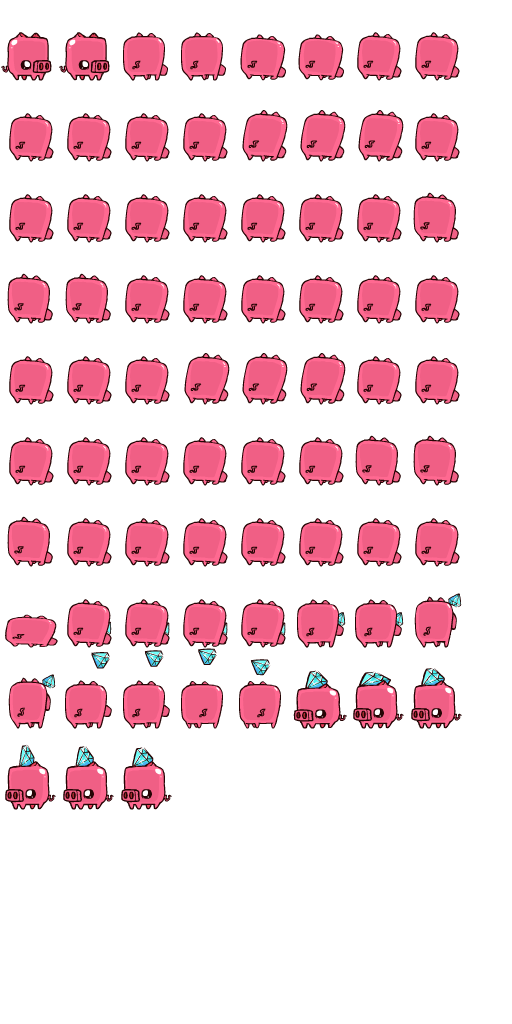
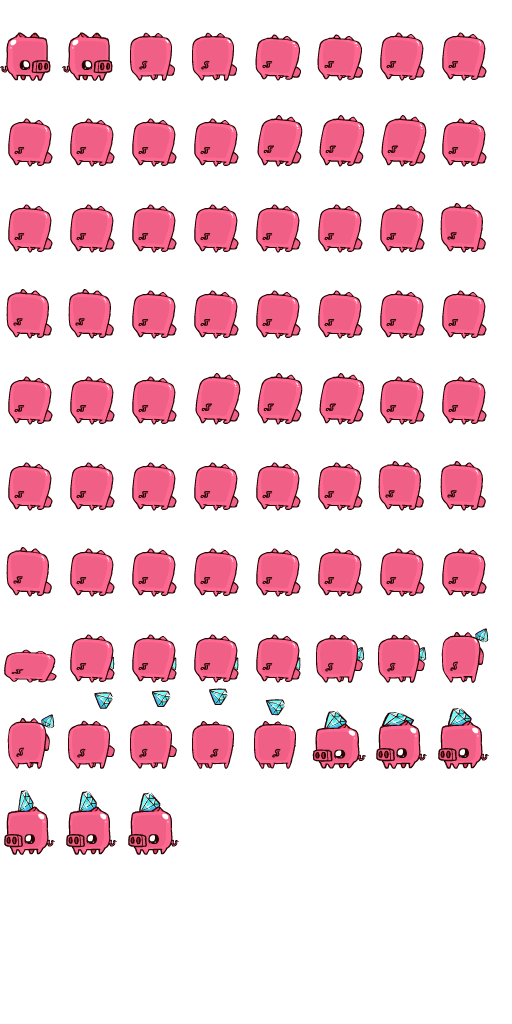
no message

diff --git a/js/Actor.js b/js/Actor.js
@@ -7,34 +7,67 @@ var Actor = function (type) {
 
 	this.type = type;
 
+	this.hasGem = false;
+	this.isOnGround = false;
+
+	var data;
+	data = new createjs.SpriteSheet({
+		framerate: 25,
+		images: [ 
+			GJ.Assets.get('PigRun'), 		// 22
+			GJ.Assets.get('PigHit'), 		// 15
+			GJ.Assets.get('PigCollect'), 	// 75
+			GJ.Assets.get('PigGemRun'), 		// 22
+			GJ.Assets.get('PigBombRun') 		// 22
+		], 
+		frames: [
+			// x, y, width, height, index, regX, regY
+			// the index needs to match the file with the sprites
+			[0,0,56,70,0,27.75,67.7],[56,0,56,70,0,27.75,67.7],[112,0,56,70,0,27.75,67.7],[168,0,56,70,0,27.75,67.7],[0,70,56,70,0,27.75,67.7],[56,70,56,70,0,27.75,67.7],[112,70,56,70,0,27.75,67.7],[168,70,56,70,0,27.75,67.7],[0,140,56,70,0,27.75,67.7],[56,140,56,70,0,27.75,67.7],[112,140,56,70,0,27.75,67.7],[168,140,56,70,0,27.75,67.7],[0,210,56,70,0,27.75,67.7],[56,210,56,70,0,27.75,67.7],[112,210,56,70,0,27.75,67.7],[168,210,56,70,0,27.75,67.7],[0,280,56,70,0,27.75,67.7],[56,280,56,70,0,27.75,67.7],[112,280,56,70,0,27.75,67.7],[168,280,56,70,0,27.75,67.7],[0,350,56,70,0,27.75,67.7],[56,350,56,70,0,27.75,67.7],
+			[0,0,58,58,1,3.4,4.15],[58,0,58,58,1,3.4,4.15],[116,0,58,58,1,3.4,4.15],[174,0,58,58,1,3.4,4.15],[0,58,58,58,1,3.4,4.15],[58,58,58,58,1,3.4,4.15],[116,58,58,58,1,3.4,4.15],[174,58,58,58,1,3.4,4.15],[0,116,58,58,1,3.4,4.15],[58,116,58,58,1,3.4,4.15],[116,116,58,58,1,3.4,4.15],[174,116,58,58,1,3.4,4.15],[0,174,58,58,1,3.4,4.15],[58,174,58,58,1,3.4,4.15],[116,174,58,58,1,3.4,4.15],
+			[0,0,57,81,2,28,80.5],[62,0,57,81,2,28,80.5],[124,0,57,81,2,28,80.5],[186,0,57,81,2,28,80.5],[248,0,57,81,2,28,80.5],[310,0,57,81,2,28,80.5],[372,0,57,81,2,28,80.5],[434,0,57,81,2,28,80.5],[0,86,57,81,2,28,80.5],[62,86,57,81,2,28,80.5],[124,86,57,81,2,28,80.5],[186,86,57,81,2,28,80.5],[248,86,57,81,2,28,80.5],[310,86,57,81,2,28,80.5],[372,86,57,81,2,28,80.5],[434,86,57,81,2,28,80.5],[0,172,57,81,2,28,80.5],[62,172,57,81,2,28,80.5],[124,172,57,81,2,28,80.5],[186,172,57,81,2,28,80.5],[248,172,57,81,2,28,80.5],[310,172,57,81,2,28,80.5],[372,172,57,81,2,28,80.5],[434,172,57,81,2,28,80.5],[0,258,57,81,2,28,80.5],[62,258,57,81,2,28,80.5],[124,258,57,81,2,28,80.5],[186,258,57,81,2,28,80.5],[248,258,57,81,2,28,80.5],[310,258,57,81,2,28,80.5],[372,258,57,81,2,28,80.5],[434,258,57,81,2,28,80.5],[0,344,57,81,2,28,80.5],[62,344,57,81,2,28,80.5],[124,344,57,81,2,28,80.5],[186,344,57,81,2,28,80.5],[248,344,57,81,2,28,80.5],[310,344,57,81,2,28,80.5],[372,344,57,81,2,28,80.5],[434,344,57,81,2,28,80.5],[0,430,57,81,2,28,80.5],[62,430,57,81,2,28,80.5],[124,430,57,81,2,28,80.5],[186,430,57,81,2,28,80.5],[248,430,57,81,2,28,80.5],[310,430,57,81,2,28,80.5],[372,430,57,81,2,28,80.5],[434,430,57,81,2,28,80.5],[0,516,57,81,2,28,80.5],[62,516,57,81,2,28,80.5],[124,516,57,81,2,28,80.5],[186,516,57,81,2,28,80.5],[248,516,57,81,2,28,80.5],[310,516,57,81,2,28,80.5],[372,516,57,81,2,28,80.5],[434,516,57,81,2,28,80.5],[0,602,57,81,2,28,80.5],[62,602,57,81,2,28,80.5],[124,602,57,81,2,28,80.5],[186,602,57,81,2,28,80.5],[248,602,57,81,2,28,80.5],[310,602,57,81,2,28,80.5],[372,602,57,81,2,28,80.5],[434,602,57,81,2,28,80.5],[0,688,57,81,2,28,80.5],[62,688,57,81,2,28,80.5],[124,688,57,81,2,28,80.5],[186,688,57,81,2,28,80.5],[248,688,57,81,2,28,80.5],[310,688,57,81,2,28,80.5],[372,688,57,81,2,28,80.5],[434,688,57,81,2,28,80.5],[0,774,57,81,2,28,80.5],[62,774,57,81,2,28,80.5],[124,774,57,81,2,28,80.5],
+			[0,0,78,128,3,38.95,124.25],[78,0,78,128,3,38.95,124.25],[156,0,78,128,3,38.95,124.25],[234,0,78,128,3,38.95,124.25],[312,0,78,128,3,38.95,124.25],[390,0,78,128,3,38.95,124.25],[0,128,78,128,3,38.95,124.25],[78,128,78,128,3,38.95,124.25],[156,128,78,128,3,38.95,124.25],[234,128,78,128,3,38.95,124.25],[312,128,78,128,3,38.95,124.25],[390,128,78,128,3,38.95,124.25],[0,256,78,128,3,38.95,124.25],[78,256,78,128,3,38.95,124.25],[156,256,78,128,3,38.95,124.25],[234,256,78,128,3,38.95,124.25],[312,256,78,128,3,38.95,124.25],[390,256,78,128,3,38.95,124.25],[0,384,78,128,3,38.95,124.25],[78,384,78,128,3,38.95,124.25],[156,384,78,128,3,38.95,124.25],[234,384,78,128,3,38.95,124.25],
+			[0,0,56,97,4,27.75,93.95],[56,0,56,97,4,27.75,93.95],[112,0,56,97,4,27.75,93.95],[168,0,56,97,4,27.75,93.95],[224,0,56,97,4,27.75,93.95],[280,0,56,97,4,27.75,93.95],[336,0,56,97,4,27.75,93.95],[392,0,56,97,4,27.75,93.95],[448,0,56,97,4,27.75,93.95],[0,97,56,97,4,27.75,93.95],[56,97,56,97,4,27.75,93.95],[112,97,56,97,4,27.75,93.95],[168,97,56,97,4,27.75,93.95],[224,97,56,97,4,27.75,93.95],[280,97,56,97,4,27.75,93.95],[336,97,56,97,4,27.75,93.95],[392,97,56,97,4,27.75,93.95],[448,97,56,97,4,27.75,93.95],[0,194,56,97,4,27.75,93.95],[56,194,56,97,4,27.75,93.95],[112,194,56,97,4,27.75,93.95],[168,194,56,97,4,27.75,93.95]
+		],
+		animations: { 
+			run: [0, 21],
+			hit: [22, 37],
+			collect: [38, 113],
+			gemrun: [114, 136],
+			bombrun: [137, 159]
+		}
+	});
+	this.image = new createjs.Sprite(data, 'run');
+
+	this.waitDelay = 160;
+
 	if (this.type === GJ.ActorTypes.GROUND_NORMAL) {
 		this.useGravity = true;
 		this.moveSpeed = 1;
 		this.maxMoveSpeed = 5;
 		this.weight = 2;
-		this.waitDelay = 100;
-		this.image = new createjs.Bitmap(GJ.Assets.get('sprite1'));
+		this.hasBomb = false;
 
 	} else if (this.type === GJ.ActorTypes.GROUND_EXPLODING) {
 		this.useGravity = true;
 		this.moveSpeed = 1;
-		this.maxMoveSpeed = 5;
+		this.maxMoveSpeed = 3;
 		this.weight = 2;
-		this.waitDelay = 200;
-		this.image = new createjs.Bitmap(GJ.Assets.get('sprite2'));
+		this.hasBomb = true;
 
 	} else if (this.type === GJ.ActorTypes.FLYING_NORMAL) {
 		this.useGravity = false;
 		this.moveSpeed = 1;
 		this.maxMoveSpeed = 5;
 		this.weight = 2;
-		this.waitDelay = 300;
-		this.image = new createjs.Bitmap(GJ.Assets.get('sprite3'));
+		this.hasBomb = false;
 		this.balloon = new createjs.Bitmap(GJ.Assets.get('sprite1'));
 	}
 
 	this.image.x = Math.random() * 100 + 700;
 	this.image.y = Math.random() * 400;
+
+	this.height = 50;//this.image.getBounds().height;
 
 	if (typeof this.balloon !== 'undefined') {
 		this.balloon.x = this.image.x;
@@ -94,14 +127,16 @@ Actor.prototype.doAI = function () {
 
 		if (this.image.y + this.image.getBounds().height / 2 > this.groundHeight) {
 			this.state = GJ.States.STEALING;
+			this.type = GJ.ActorTypes.GROUND_NORMAL;
 		}
 
 	} else if (this.state === GJ.States.STEALING) {
 		this.waitTimer++;
 
-		this.idle();
+		this.collect();
 
 		if (this.waitTimer > this.waitDelay) {
+			this.hasGem = true;
 			this.state = GJ.States.LEGGING_IT;
 		}
 	} else if (this.state === GJ.States.LEGGING_IT) {
@@ -149,8 +184,21 @@ Actor.prototype.moveLeft = function () {
 	}
 
 	this.direction = GJ.Directions.LEFT;
-	this.image.scaleX = 1;
-	// this.image.gotoAndPlay('run');
+	this.image.scaleX = -1;
+
+	if (this.image.currentAnimation !== 'run' && this.image.currentAnimation !== 'gemrun') {
+
+		if (this.hasGem) {
+			this.image.gotoAndPlay('gemrun');
+		} else if (this.hasBomb) {
+			console.log('biomb');
+			this.image.gotoAndPlay('bombrun');
+		} else {
+			this.image.gotoAndPlay('run');
+			
+		}
+	}
+
 };
 
 
@@ -163,12 +211,24 @@ Actor.prototype.moveRight = function () {
 	}
 
 	this.direction = GJ.Directions.RIGHT;
-	this.image.scaleX = -1;
-	// this.image.gotoAndPlay('run');
+
+	this.image.scaleX = 1;
+
+	if (this.image.currentAnimation !== 'run' && this.image.currentAnimation !== 'gemrun') {
+
+		if (this.hasGem) {
+			this.image.gotoAndPlay('gemrun');
+		} else if (this.hasBomb) {
+			this.image.gotoAndPlay('bombrun');
+		}  else {
+			this.image.gotoAndPlay('run');
+		}
+	}
+
 };
 
 
-Actor.prototype.idle = function () {
+Actor.prototype.collect = function () {
 	if (this.accelX > 0) {
 		this.accelX -= this.weight;
 
@@ -183,23 +243,27 @@ Actor.prototype.idle = function () {
 		}
 	}
 
+	if (this.image.currentAnimation !== 'collect') {
+			this.image.gotoAndPlay('collect');
+		}
+
 	// this.image.gotoAndPlay('idle');
 };
 
 
 Actor.prototype.spawnBacsplosion = function () {
-	this.emitter = new createjs.ParticleEmitter();
+	this.emitter = new createjs.ParticleEmitter(GJ.Assets.get('ParticleBacon'));
     this.emitter.position = new createjs.Point(this.image.x, this.image.y);
     this.emitter.emitterType = createjs.ParticleEmitterType.Emit;
     this.emitter.duration = 60;	// how long emitter lasts for
-    this.emitter.emissionRate = 400;
-    this.emitter.maxParticles = 800;
-    this.emitter.life = 3000;
-    this.emitter.lifeVar = 1000;
-    this.emitter.speed = 200;
+    this.emitter.emissionRate = 200;
+    this.emitter.maxParticles = 200;
+    this.emitter.life = 2000;
+    this.emitter.lifeVar = 500;
+    this.emitter.speed = 230;
     this.emitter.speedVar = 0;
-    this.emitter.positionVarX = 0;
-    this.emitter.positionVarY = 0;
+    this.emitter.positionVarX = 5;
+    this.emitter.positionVarY = 5;
     this.emitter.accelerationX = 0;
     this.emitter.accelerationY = 0;
     this.emitter.radialAcceleration = 0;
@@ -210,17 +274,17 @@ Actor.prototype.spawnBacsplosion = function () {
     this.emitter.angleVar = 180;
     this.emitter.startSpin = 0;
     this.emitter.startSpinVar = 0;
-    this.emitter.endSpin = null;
-    this.emitter.endSpinVar = null;
+    this.emitter.endSpin = 10;
+    this.emitter.endSpinVar = 1;
     this.emitter.startColor = [150, 150, 150];
     this.emitter.startColorVar = [0, 0, 0];
     this.emitter.startOpacity = 1;
     this.emitter.endColor = null;
     this.emitter.endColorVar = null;
     this.emitter.endOpacity = 0;
-    this.emitter.startSize = 20;
+    this.emitter.startSize = 10;
     this.emitter.startSizeVar = 0;
-    this.emitter.endSize = 40;
+    this.emitter.endSize = 10;
     this.emitter.endSizeVar = null;
 
 	GJ.getStage().addChild(this.emitter);
@@ -250,10 +314,14 @@ Actor.prototype.hitByBullet = function () {
 
 
 Actor.prototype.checkWorldCollision = function () {
-	var height = this.image.getBounds().height / 2;
+	// var height = this.height;//this.image.getBounds().height / 2;
 
-	if (this.image.y + height + this.accelY >= GJ.getCurrentWorld().getGroundHeight()) {
-		this.image.y = GJ.getCurrentWorld().getGroundHeight() - height;
+	if (this.image.y + this.accelY + this.height >= GJ.getCurrentWorld().getGroundHeight()) {
+		this.image.y = GJ.getCurrentWorld().getGroundHeight() + this.height;
 		this.accelY = 0;
+
+		this.isOnGround = true;
+	} else {
+		this.isOnGround = false;
 	}
 };

diff --git a/img/Pigs/PigCollect.js b/img/Pigs/PigCollect.js
@@ -2,7 +2,7 @@
 CollectingPig_instance_1 = function() {
 	this.initialize();
 }
-CollectingPig_instance_1._SpriteSheet = new createjs.SpriteSheet({images: ["PigCollect.png"], frames: [[0,0,58,81,0,0,31.6],[58,0,58,81,0,0,31.6],[116,0,58,81,0,0,31.6],[174,0,58,81,0,0,31.6],[232,0,58,81,0,0,31.6],[290,0,58,81,0,0,31.6],[348,0,58,81,0,0,31.6],[406,0,58,81,0,0,31.6],[0,81,58,81,0,0,31.6],[58,81,58,81,0,0,31.6],[116,81,58,81,0,0,31.6],[174,81,58,81,0,0,31.6],[232,81,58,81,0,0,31.6],[290,81,58,81,0,0,31.6],[348,81,58,81,0,0,31.6],[406,81,58,81,0,0,31.6],[0,162,58,81,0,0,31.6],[58,162,58,81,0,0,31.6],[116,162,58,81,0,0,31.6],[174,162,58,81,0,0,31.6],[232,162,58,81,0,0,31.6],[290,162,58,81,0,0,31.6],[348,162,58,81,0,0,31.6],[406,162,58,81,0,0,31.6],[0,243,58,81,0,0,31.6],[58,243,58,81,0,0,31.6],[116,243,58,81,0,0,31.6],[174,243,58,81,0,0,31.6],[232,243,58,81,0,0,31.6],[290,243,58,81,0,0,31.6],[348,243,58,81,0,0,31.6],[406,243,58,81,0,0,31.6],[0,324,58,81,0,0,31.6],[58,324,58,81,0,0,31.6],[116,324,58,81,0,0,31.6],[174,324,58,81,0,0,31.6],[232,324,58,81,0,0,31.6],[290,324,58,81,0,0,31.6],[348,324,58,81,0,0,31.6],[406,324,58,81,0,0,31.6],[0,405,58,81,0,0,31.6],[58,405,58,81,0,0,31.6],[116,405,58,81,0,0,31.6],[174,405,58,81,0,0,31.6],[232,405,58,81,0,0,31.6],[290,405,58,81,0,0,31.6],[348,405,58,81,0,0,31.6],[406,405,58,81,0,0,31.6],[0,486,58,81,0,0,31.6],[58,486,58,81,0,0,31.6],[116,486,58,81,0,0,31.6],[174,486,58,81,0,0,31.6],[232,486,58,81,0,0,31.6],[290,486,58,81,0,0,31.6],[348,486,58,81,0,0,31.6],[406,486,58,81,0,0,31.6],[0,567,58,81,0,0,31.6],[58,567,58,81,0,0,31.6],[116,567,58,81,0,0,31.6],[174,567,58,81,0,0,31.6],[232,567,58,81,0,0,31.6],[290,567,58,81,0,0,31.6],[348,567,58,81,0,0,31.6],[406,567,58,81,0,0,31.6],[0,648,58,81,0,0,31.6],[58,648,58,81,0,0,31.6],[116,648,58,81,0,0,31.6],[174,648,58,81,0,0,31.6],[232,648,58,81,0,0,31.6],[290,648,58,81,0,0,31.6],[348,648,58,81,0,0,31.6],[406,648,58,81,0,0,31.6],[0,729,58,81,0,0,31.6],[58,729,58,81,0,0,31.6],[116,729,58,81,0,0,31.6]]});
+CollectingPig_instance_1._SpriteSheet = new createjs.SpriteSheet({images: ["PigCollect.png"], frames: [[0,0,57,81,2,28,80.5],[62,0,57,81,2,28,80.5],[124,0,57,81,2,28,80.5],[186,0,57,81,2,28,80.5],[248,0,57,81,2,28,80.5],[310,0,57,81,2,28,80.5],[372,0,57,81,2,28,80.5],[434,0,57,81,2,28,80.5],[0,86,57,81,2,28,80.5],[62,86,57,81,2,28,80.5],[124,86,57,81,2,28,80.5],[186,86,57,81,2,28,80.5],[248,86,57,81,2,28,80.5],[310,86,57,81,2,28,80.5],[372,86,57,81,2,28,80.5],[434,86,57,81,2,28,80.5],[0,172,57,81,2,28,80.5],[62,172,57,81,2,28,80.5],[124,172,57,81,2,28,80.5],[186,172,57,81,2,28,80.5],[248,172,57,81,2,28,80.5],[310,172,57,81,2,28,80.5],[372,172,57,81,2,28,80.5],[434,172,57,81,2,28,80.5],[0,258,57,81,2,28,80.5],[62,258,57,81,2,28,80.5],[124,258,57,81,2,28,80.5],[186,258,57,81,2,28,80.5],[248,258,57,81,2,28,80.5],[310,258,57,81,2,28,80.5],[372,258,57,81,2,28,80.5],[434,258,57,81,2,28,80.5],[0,344,57,81,2,28,80.5],[62,344,57,81,2,28,80.5],[124,344,57,81,2,28,80.5],[186,344,57,81,2,28,80.5],[248,344,57,81,2,28,80.5],[310,344,57,81,2,28,80.5],[372,344,57,81,2,28,80.5],[434,344,57,81,2,28,80.5],[0,430,57,81,2,28,80.5],[62,430,57,81,2,28,80.5],[124,430,57,81,2,28,80.5],[186,430,57,81,2,28,80.5],[248,430,57,81,2,28,80.5],[310,430,57,81,2,28,80.5],[372,430,57,81,2,28,80.5],[434,430,57,81,2,28,80.5],[0,516,57,81,2,28,80.5],[62,516,57,81,2,28,80.5],[124,516,57,81,2,28,80.5],[186,516,57,81,2,28,80.5],[248,516,57,81,2,28,80.5],[310,516,57,81,2,28,80.5],[372,516,57,81,2,28,80.5],[434,516,57,81,2,28,80.5],[0,602,57,81,2,28,80.5],[62,602,57,81,2,28,80.5],[124,602,57,81,2,28,80.5],[186,602,57,81,2,28,80.5],[248,602,57,81,2,28,80.5],[310,602,57,81,2,28,80.5],[372,602,57,81,2,28,80.5],[434,602,57,81,2,28,80.5],[0,688,57,81,2,28,80.5],[62,688,57,81,2,28,80.5],[124,688,57,81,2,28,80.5],[186,688,57,81,2,28,80.5],[248,688,57,81,2,28,80.5],[310,688,57,81,2,28,80.5],[372,688,57,81,2,28,80.5],[434,688,57,81,2,28,80.5],[0,774,57,81,2,28,80.5],[62,774,57,81,2,28,80.5],[124,774,57,81,2,28,80.5]]});
 var CollectingPig_instance_1_p = CollectingPig_instance_1.prototype = new createjs.BitmapAnimation();
 CollectingPig_instance_1_p.BitmapAnimation_initialize = CollectingPig_instance_1_p.initialize;
 CollectingPig_instance_1_p.initialize = function() {

diff --git a/js/Player.js b/js/Player.js
@@ -54,21 +54,25 @@ var Player = function (leftKey, rightKey, shootKey, jumpKey, meleeKey, useKey, m
 		framerate: 25,
 		images: [ 
 			GJ.Assets.get('MainCharacterIdle'), // 10
-			GJ.Assets.get('MainCharacterRun') 	// 17
+			GJ.Assets.get('MainCharacterRun'), 	// 17
+			GJ.Assets.get('MainCharacterJump') 	// 15
+			// repeat jump sheet for landing anim // 25
 		], 
 		frames: [
 			// x, y, width, height, index, regX, regY
 			// the index needs to match the file with the sprites
 			[0,0,67,97,0,32.3,96.65],[72,0,67,97,0,32.3,96.65],[144,0,67,97,0,32.3,96.65],[0,102,67,97,0,32.3,96.65],[72,102,67,97,0,32.3,96.65],[144,102,67,97,0,32.3,96.65],[0,204,67,97,0,32.3,96.65],[72,204,67,97,0,32.3,96.65],[144,204,67,97,0,32.3,96.65],[0,306,67,97,0,32.3,96.65],[72,306,67,97,0,32.3,96.65],[144,306,67,97,0,32.3,96.65],[0,408,67,97,0,32.3,96.65],
-			[0,0,71,113,1,37.75,112.35],[71,0,71,113,1,37.75,112.35],[142,0,71,113,1,37.75,112.35],[213,0,71,113,1,37.75,112.35],[284,0,71,113,1,37.75,112.35],[355,0,71,113,1,37.75,112.35],[426,0,71,113,1,37.75,112.35],[0,113,71,113,1,37.75,112.35],[71,113,71,113,1,37.75,112.35],[142,113,71,113,1,37.75,112.35],[213,113,71,113,1,37.75,112.35],[284,113,71,113,1,37.75,112.35],[355,113,71,113,1,37.75,112.35],[426,113,71,113,1,37.75,112.35],[0,226,71,113,1,37.75,112.35],[71,226,71,113,1,37.75,112.35],[142,226,71,113,1,37.75,112.35]
+			[0,0,71,113,1,37.75,112.35],[71,0,71,113,1,37.75,112.35],[142,0,71,113,1,37.75,112.35],[213,0,71,113,1,37.75,112.35],[284,0,71,113,1,37.75,112.35],[355,0,71,113,1,37.75,112.35],[426,0,71,113,1,37.75,112.35],[0,113,71,113,1,37.75,112.35],[71,113,71,113,1,37.75,112.35],[142,113,71,113,1,37.75,112.35],[213,113,71,113,1,37.75,112.35],[284,113,71,113,1,37.75,112.35],[355,113,71,113,1,37.75,112.35],[426,113,71,113,1,37.75,112.35],[0,226,71,113,1,37.75,112.35],[71,226,71,113,1,37.75,112.35],[142,226,71,113,1,37.75,112.35],
+			[0,0,101,104,2,47.05,99.85],[101,0,101,104,2,47.05,99.85],[202,0,101,104,2,47.05,99.85],[303,0,101,104,2,47.05,99.85],[404,0,101,104,2,47.05,99.85],[0,104,101,104,2,47.05,99.85],[101,104,101,104,2,47.05,99.85],[202,104,101,104,2,47.05,99.85],[303,104,101,104,2,47.05,99.85],[404,104,101,104,2,47.05,99.85],[0,208,101,104,2,47.05,99.85],[101,208,101,104,2,47.05,99.85],[202,208,101,104,2,47.05,99.85],[303,208,101,104,2,47.05,99.85],[404,208,101,104,2,47.05,99.85],[0,312,101,104,2,47.05,99.85],[101,312,101,104,2,47.05,99.85],[202,312,101,104,2,47.05,99.85],[303,312,101,104,2,47.05,99.85],[404,312,101,104,2,47.05,99.85],[0,416,101,104,2,47.05,99.85],[101,416,101,104,2,47.05,99.85],[202,416,101,104,2,47.05,99.85],[303,416,101,104,2,47.05,99.85],[404,416,101,104,2,47.05,99.85],[0,520,101,104,2,47.05,99.85],[101,520,101,104,2,47.05,99.85],[202,520,101,104,2,47.05,99.85],[303,520,101,104,2,47.05,99.85],[404,520,101,104,2,47.05,99.85],[0,624,101,104,2,47.05,99.85],[101,624,101,104,2,47.05,99.85],[202,624,101,104,2,47.05,99.85],[303,624,101,104,2,47.05,99.85],[404,624,101,104,2,47.05,99.85],[0,728,101,104,2,47.05,99.85],[101,728,101,104,2,47.05,99.85],[202,728,101,104,2,47.05,99.85],[303,728,101,104,2,47.05,99.85],[404,728,101,104,2,47.05,99.85]
 		],
 		animations: { 
 			idle: [0, 10],
 			run: [11, 27],
-			jump: [15, 15],
-			fall: [20, 20],
-			melee: [24, 24],
-			shoot: [27, 27]
+			jump: [28, 43],
+			fall: [44, 69]//,
+
+			// melee: [24, 24],
+			// shoot: [27, 27]
 		}
 	});
 	this.image = new createjs.Sprite(data, 'idle');
@@ -190,7 +194,7 @@ Player.prototype.moveLeft = function () {
 	this.direction = GJ.Directions.LEFT;
 	this.image.scaleX = -1;
 
-	if (this.image.currentAnimation !== 'run') {
+	if (this.image.currentAnimation !== 'run' && this.isOnGround) {
 		this.image.gotoAndPlay('run');
 	}
 };
@@ -207,7 +211,7 @@ Player.prototype.moveRight = function () {
 	this.direction = GJ.Directions.RIGHT;
 	this.image.scaleX = 1;
 
-	if (this.image.currentAnimation !== 'run') {
+	if (this.image.currentAnimation !== 'run' && this.isOnGround) {
 		this.image.gotoAndPlay('run');
 	}
 };
@@ -250,6 +254,7 @@ Player.prototype.jump = function () {
 
 		if (this.image.currentAnimation !== 'jump') {
 			this.image.gotoAndPlay('jump');
+			console.log('j');
 		}
 	}
 };
@@ -258,7 +263,7 @@ Player.prototype.jump = function () {
 Player.prototype.idle = function () {
 	this.dampenAcceleration();
 
-	if (this.image.currentAnimation !== 'idle') {
+	if (this.image.currentAnimation !== 'idle' && this.isOnGround) {
 		this.image.gotoAndPlay('idle');
 	}
 };

diff --git a/js/GJ.Assets.js b/js/GJ.Assets.js
@@ -11,11 +11,26 @@ GJ.Assets = (function () {
 
 	var loadQueued = function () {
 		queue.loadManifest([
-			{id: 'ExplosionSmall', src:'img/ExplosionSmall.png'},
+			// effects
+			{id: 'EffectExplosionSmall', src:'img/Effects/ExplosionSmall.png'},
+			{id: 'EffectHitEffect', src:'img/Effects/EffectHitEffect.png'},
+			{id: 'EffectJumpSmoke', src:'img/Effects/JumpSmoke.png'},
+			{id: 'EffectRunningSmoke', src:'img/Effects/RunningSmoke.png'},
 
 			// main character
 			{id: 'MainCharacterIdle', src:'img/MainCharacter/Idle.png'},
 			{id: 'MainCharacterRun', src:'img/MainCharacter/Run.png'},
+			{id: 'MainCharacterJump', src:'img/MainCharacter/Jumping-NoLoop.png'},
+
+			// pigs
+			{id: 'PigRun', src:'img/Pigs/PigRun.png'},
+			{id: 'PigHit', src:'img/Pigs/PigHit.png'},
+			{id: 'PigCollect', src:'img/Pigs/PigCollect.png'},
+			{id: 'PigGemRun', src:'img/Pigs/DiamondPigRun.png'},
+			{id: 'PigBombRun', src:'img/Pigs/BombPigRun.png'},
+
+			// particles
+			{id: 'ParticleBacon', src:'img/Particles/BaconParticle.png'},
 
 			// scene
 			{id: 'SceneCloud1', src:'img/Scene/Cloud1.png'},
@@ -25,7 +40,7 @@ GJ.Assets = (function () {
 			{id: 'sprite1', src:'img/sprite1.jpg'},
 			{id: 'sprite2', src:'img/sprite2.jpg'},
 			{id: 'sprite3', src:'img/sprite3.jpg'},
-			
+
 			{id: 'amb_birdsong', src:'audio/amb_birdsong.ogg', data: 4},
 			{id: 'footstep_grass_01', src:'audio/footstep_grass_01.ogg', data: 4},
 			{id: 'footstep_grass_02', src:'audio/footstep_grass_02.ogg', data: 4},

diff --git a/js/GJ.js b/js/GJ.js
@@ -53,11 +53,11 @@ var GJ = (function () {
 			actors = [];
 			// for (i = 0; i < NUM_ACTORS; i++) {
 			actors.push(new Actor(GJ.ActorTypes.GROUND_NORMAL));
-			actors.push(new Actor(GJ.ActorTypes.GROUND_NORMAL));
+			// actors.push(new Actor(GJ.ActorTypes.GROUND_NORMAL));
 			actors.push(new Actor(GJ.ActorTypes.GROUND_EXPLODING));
-			actors.push(new Actor(GJ.ActorTypes.GROUND_EXPLODING));
-			actors.push(new Actor(GJ.ActorTypes.FLYING_NORMAL));
-			actors.push(new Actor(GJ.ActorTypes.FLYING_NORMAL));
+			// actors.push(new Actor(GJ.ActorTypes.GROUND_EXPLODING));
+			// actors.push(new Actor(GJ.ActorTypes.FLYING_NORMAL));
+			// actors.push(new Actor(GJ.ActorTypes.FLYING_NORMAL));
 			// }
 
 			players = [];

diff --git a/js/World.js b/js/World.js
@@ -64,7 +64,7 @@ World.prototype.scrollClouds = function () {
 
 		cloud.x -= 0.15;
 
-		if (cloud.x + /*cloud.getBounds().width*/60 < 0) {
+		if (cloud.x + cloud.getBounds().width < 0) {
 			cloud.x = this.worldWidth + Math.random() * 100;
 			this.clouds[i].y = 30 + Math.random() * 100;
 		}

diff --git a/index.html b/index.html
@@ -10,7 +10,7 @@
 </head>
 
 <body>
-	<canvas id="myCanvas" width="800" height="600"></canvas>
+	<canvas id="myCanvas" width="1100" height="600"></canvas>
 </body>
 
 <script src="js/vendor/easeljs-0.7.1.min.js"></script>
